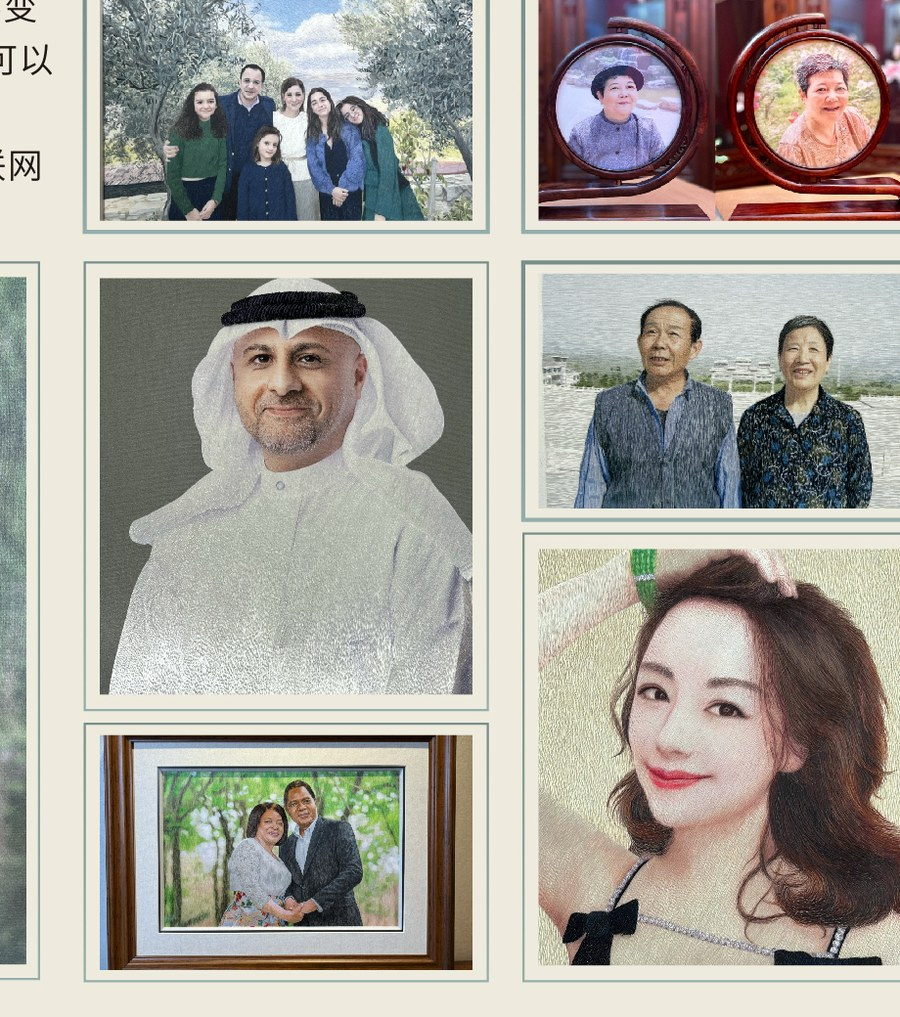
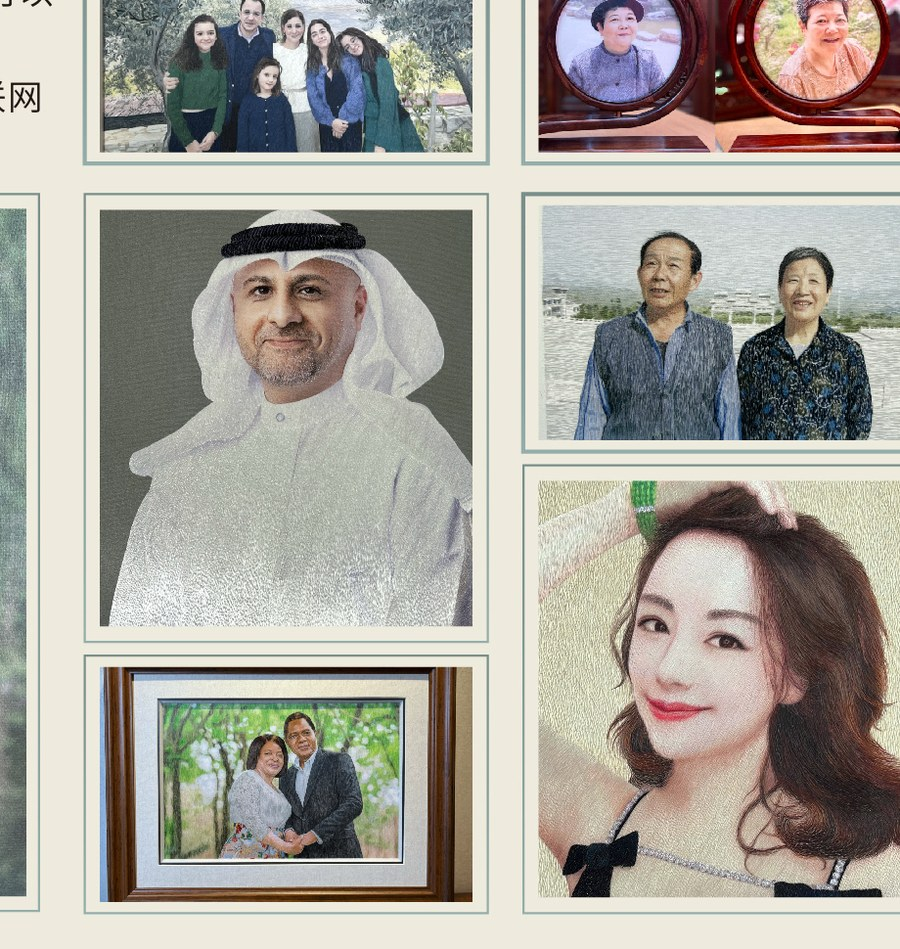
Polish final website copy and imagery

diff --git a/works-bieshu.html b/works-bieshu.html
@@ -129,7 +129,7 @@
         <div class="container mx-auto px-6 lg:px-12">
             <div class="grid grid-cols-1 md:grid-cols-2 gap-12 items-center mb-16">
                 <div class="fade-in">
-                    <img src="images/别墅挂画主图-1.png" alt="别墅挂画" class="w-full h-[500px] object-cover shadow-2xl">
+                    <img src="images/studio/villa-main.jpg" alt="别墅挂画" class="w-full h-[500px] object-cover shadow-2xl">
                 </div>
                 <div class="fade-in">
                     <h2 class="text-2xl font-serif tracking-wider mb-6">高端空间艺术定制</h2>
@@ -145,7 +145,7 @@
             </div>
             <div class="grid grid-cols-1 md:grid-cols-3 gap-8">
                 <div class="group relative overflow-hidden cursor-pointer fade-in">
-                    <img src="images/别墅挂画-3.png" alt="客厅挂画" class="w-full h-[500px] object-cover transition-transform duration-700 group-hover:scale-110">
+                    <img src="images/studio/villa-bird-detail.jpg" alt="客厅挂画" class="w-full h-[500px] object-cover transition-transform duration-700 group-hover:scale-110">
                     <div class="absolute inset-0 bg-black/0 group-hover:bg-black/40 transition-all duration-500 flex items-end">
                         <div class="p-6 translate-y-full group-hover:translate-y-0 transition-transform duration-500 text-white">
                             <h3 class="text-lg font-serif tracking-wider">客厅玄关</h3>
@@ -153,7 +153,7 @@
                     </div>
                 </div>
                 <div class="group relative overflow-hidden cursor-pointer fade-in" style="transition-delay: 0.1s;">
-                    <img src="images/别墅挂画-2.png" alt="书房挂画" class="w-full h-[500px] object-cover transition-transform duration-700 group-hover:scale-110">
+                    <img src="images/studio/villa-flower-detail.jpg" alt="书房挂画" class="w-full h-[500px] object-cover transition-transform duration-700 group-hover:scale-110">
                     <div class="absolute inset-0 bg-black/0 group-hover:bg-black/40 transition-all duration-500 flex items-end">
                         <div class="p-6 translate-y-full group-hover:translate-y-0 transition-transform duration-500 text-white">
                             <h3 class="text-lg font-serif tracking-wider">书房花鸟</h3>
@@ -161,7 +161,7 @@
                     </div>
                 </div>
                 <div class="group relative overflow-hidden cursor-pointer fade-in" style="transition-delay: 0.2s;">
-                    <img src="images/别墅挂画-4.jpg" alt="卧室挂画" class="w-full h-[500px] object-cover transition-transform duration-700 group-hover:scale-110">
+                    <img src="images/studio/villa-landscape.jpg" alt="卧室挂画" class="w-full h-[500px] object-cover transition-transform duration-700 group-hover:scale-110">
                     <div class="absolute inset-0 bg-black/0 group-hover:bg-black/40 transition-all duration-500 flex items-end">
                         <div class="p-6 translate-y-full group-hover:translate-y-0 transition-transform duration-500 text-white">
                             <h3 class="text-lg font-serif tracking-wider">卧室意境</h3>

diff --git a/works-foxiang.html b/works-foxiang.html
@@ -129,7 +129,7 @@
         <div class="container mx-auto px-6 lg:px-12">
             <div class="grid grid-cols-1 md:grid-cols-2 gap-12 items-center mb-16">
                 <div class="fade-in">
-                    <img src="images/别墅挂画-2.png" alt="苏绣佛像" class="w-full h-[500px] object-cover shadow-2xl">
+                    <img src="images/studio/buddha-guanyin.jpg" alt="苏绣佛像" class="w-full h-[500px] object-cover shadow-2xl">
                 </div>
                 <div class="fade-in">
                     <h2 class="text-2xl font-serif tracking-wider mb-6">苏绣佛像</h2>
@@ -145,7 +145,7 @@
             </div>
             <div class="grid grid-cols-1 md:grid-cols-3 gap-8">
                 <div class="group relative overflow-hidden cursor-pointer fade-in">
-                    <img src="images/别墅挂画-2.png" alt="佛像作品1" class="w-full h-80 object-cover transition-transform duration-700 group-hover:scale-110">
+                    <img src="images/studio/buddha-guanyin.jpg" alt="佛像作品1" class="w-full h-80 object-cover transition-transform duration-700 group-hover:scale-110">
                     <div class="absolute inset-0 bg-black/0 group-hover:bg-black/40 transition-all duration-500 flex items-end">
                         <div class="p-6 translate-y-full group-hover:translate-y-0 transition-transform duration-500 text-white">
                             <h3 class="text-lg font-serif tracking-wider">观世音菩萨</h3>
@@ -153,7 +153,7 @@
                     </div>
                 </div>
                 <div class="group relative overflow-hidden cursor-pointer fade-in" style="transition-delay: 0.1s;">
-                    <img src="images/别墅挂画-3.png" alt="佛像作品2" class="w-full h-80 object-cover transition-transform duration-700 group-hover:scale-110">
+                    <img src="images/studio/buddha-grid.jpg" alt="佛像作品2" class="w-full h-80 object-cover transition-transform duration-700 group-hover:scale-110">
                     <div class="absolute inset-0 bg-black/0 group-hover:bg-black/40 transition-all duration-500 flex items-end">
                         <div class="p-6 translate-y-full group-hover:translate-y-0 transition-transform duration-500 text-white">
                             <h3 class="text-lg font-serif tracking-wider">弥勒佛</h3>
@@ -161,7 +161,7 @@
                     </div>
                 </div>
                 <div class="group relative overflow-hidden cursor-pointer fade-in" style="transition-delay: 0.2s;">
-                    <img src="images/别墅挂画-4.jpg" alt="佛像作品3" class="w-full h-80 object-cover transition-transform duration-700 group-hover:scale-110">
+                    <img src="images/studio/lotus-detail.jpg" alt="佛像作品3" class="w-full h-80 object-cover transition-transform duration-700 group-hover:scale-110">
                     <div class="absolute inset-0 bg-black/0 group-hover:bg-black/40 transition-all duration-500 flex items-end">
                         <div class="p-6 translate-y-full group-hover:translate-y-0 transition-transform duration-500 text-white">
                             <h3 class="text-lg font-serif tracking-wider">释迦牟尼</h3>

diff --git a/works-hunjia.html b/works-hunjia.html
@@ -142,7 +142,7 @@
         <div class="container mx-auto px-6 lg:px-12">
             <div class="grid grid-cols-1 md:grid-cols-2 gap-12 items-center mb-16">
                 <div class="fade-in">
-                    <img src="images/婚庆主图.png" alt="苏绣婚嫁" class="w-full h-[500px] object-cover shadow-2xl">
+                    <img src="images/studio/wedding-fan.jpg" alt="苏绣婚嫁团扇" class="w-full h-[500px] object-cover shadow-2xl">
                 </div>
                 <div class="fade-in">
                     <h2 class="text-2xl font-serif tracking-wider mb-6">中式备婚礼经典传承</h2>
@@ -158,7 +158,7 @@
             </div>
             <div class="grid grid-cols-1 md:grid-cols-3 gap-8">
                 <div class="group relative overflow-hidden cursor-pointer fade-in">
-                    <img src="images/婚庆主图.png" alt="龙凤褂" class="w-full h-80 object-cover transition-transform duration-700 group-hover:scale-110">
+                    <img src="images/studio/wedding-invitation.jpg" alt="婚书定制" class="w-full h-80 object-cover transition-transform duration-700 group-hover:scale-110">
                     <div class="absolute inset-0 bg-black/0 group-hover:bg-black/40 transition-all duration-500 flex items-end">
                         <div class="p-6 translate-y-full group-hover:translate-y-0 transition-transform duration-500 text-white">
                             <h3 class="text-lg font-serif tracking-wider">龙凤褂</h3>
@@ -166,7 +166,7 @@
                     </div>
                 </div>
                 <div class="group relative overflow-hidden cursor-pointer fade-in" style="transition-delay: 0.1s;">
-                    <img src="images/婚庆主图.png" alt="嫁衣" class="w-full h-80 object-cover transition-transform duration-700 group-hover:scale-110">
+                    <img src="images/studio/wedding-chair.jpg" alt="婚庆礼椅" class="w-full h-80 object-cover transition-transform duration-700 group-hover:scale-110">
                     <div class="absolute inset-0 bg-black/0 group-hover:bg-black/40 transition-all duration-500 flex items-end">
                         <div class="p-6 translate-y-full group-hover:translate-y-0 transition-transform duration-500 text-white">
                             <h3 class="text-lg font-serif tracking-wider">绣花嫁衣</h3>
@@ -174,7 +174,7 @@
                     </div>
                 </div>
                 <div class="group relative overflow-hidden cursor-pointer fade-in" style="transition-delay: 0.2s;">
-                    <img src="images/婚庆主图.png" alt="床品" class="w-full h-80 object-cover transition-transform duration-700 group-hover:scale-110">
+                    <img src="images/studio/wedding-xi-box.jpg" alt="喜盒刺绣" class="w-full h-80 object-cover transition-transform duration-700 group-hover:scale-110">
                     <div class="absolute inset-0 bg-black/0 group-hover:bg-black/40 transition-all duration-500 flex items-end">
                         <div class="p-6 translate-y-full group-hover:translate-y-0 transition-transform duration-500 text-white">
                             <h3 class="text-lg font-serif tracking-wider">婚庆床品</h3>

diff --git a/works-dongwu.html b/works-dongwu.html
@@ -142,7 +142,7 @@
         <div class="container mx-auto px-6 lg:px-12">
             <div class="grid grid-cols-1 md:grid-cols-2 gap-12 items-center mb-16">
                 <div class="fade-in">
-                    <img src="images/别墅挂画-3.png" alt="苏绣动物" class="w-full h-[500px] object-cover shadow-2xl">
+                    <img src="images/studio/animal-peacock.jpg" alt="苏绣动物" class="w-full h-[500px] object-cover shadow-2xl">
                 </div>
                 <div class="fade-in">
                     <h2 class="text-2xl font-serif tracking-wider mb-6">灵动生机的艺术呈现</h2>
@@ -158,7 +158,7 @@
             </div>
             <div class="grid grid-cols-1 md:grid-cols-3 gap-8">
                 <div class="group relative overflow-hidden cursor-pointer fade-in">
-                    <img src="images/别墅挂画-2.png" alt="金翅鸟" class="w-full h-80 object-cover transition-transform duration-700 group-hover:scale-110">
+                    <img src="images/studio/animal-peacock.jpg" alt="金翅鸟" class="w-full h-80 object-cover transition-transform duration-700 group-hover:scale-110">
                     <div class="absolute inset-0 bg-black/0 group-hover:bg-black/40 transition-all duration-500 flex items-end">
                         <div class="p-6 translate-y-full group-hover:translate-y-0 transition-transform duration-500 text-white">
                             <h3 class="text-lg font-serif tracking-wider">金翅鸟</h3>
@@ -166,7 +166,7 @@
                     </div>
                 </div>
                 <div class="group relative overflow-hidden cursor-pointer fade-in" style="transition-delay: 0.1s;">
-                    <img src="images/别墅挂画-2.png" alt="猫咪" class="w-full h-80 object-cover transition-transform duration-700 group-hover:scale-110">
+                    <img src="images/studio/animal-cat.jpg" alt="猫咪" class="w-full h-80 object-cover transition-transform duration-700 group-hover:scale-110">
                     <div class="absolute inset-0 bg-black/0 group-hover:bg-black/40 transition-all duration-500 flex items-end">
                         <div class="p-6 translate-y-full group-hover:translate-y-0 transition-transform duration-500 text-white">
                             <h3 class="text-lg font-serif tracking-wider">灵猫</h3>
@@ -174,7 +174,7 @@
                     </div>
                 </div>
                 <div class="group relative overflow-hidden cursor-pointer fade-in" style="transition-delay: 0.2s;">
-                    <img src="images/别墅挂画-4.jpg" alt="孔雀" class="w-full h-80 object-cover transition-transform duration-700 group-hover:scale-110">
+                    <img src="images/studio/animal-fox.jpg" alt="孔雀" class="w-full h-80 object-cover transition-transform duration-700 group-hover:scale-110">
                     <div class="absolute inset-0 bg-black/0 group-hover:bg-black/40 transition-all duration-500 flex items-end">
                         <div class="p-6 translate-y-full group-hover:translate-y-0 transition-transform duration-500 text-white">
                             <h3 class="text-lg font-serif tracking-wider">孔雀</h3>

diff --git a/index.html b/index.html
@@ -128,7 +128,7 @@
                         <span class="yx-eyebrow">Atelier Positioning</span>
                         <h2 class="yx-title">精品收藏级苏绣，私人定制。</h2>
                         <p>杨雪刺绣艺术以“中国·苏绣”为根，以纯手工技艺回应当代审美，让传统单品再次发光发热，也让丝织技艺走进真实生活。</p>
-                        <p>网站不再把资料册当图片贴上来，而是把内容拆成清晰的网页叙事：作品作为作品展示，履历作为文字阅读，服务作为可咨询的路径。</p>
+                        <p>网站围绕作品展示、艺术履历与定制咨询展开，让访客先看见作品质感，再理解杨雪的技艺背景与服务方式。</p>
                         <div class="yx-brochure-note">
                             <div>
                                 <strong>400万+</strong>
@@ -167,7 +167,7 @@
                         <span class="yx-eyebrow">Selected Works</span>
                         <h2 class="yx-title">作品不是装饰，是空间里被看见的时间。</h2>
                     </div>
-                    <p>参考美术馆式首页的作品陈列逻辑，这里更进一步突出真实作品、真实场景和可定制方向，让访问者第一眼就知道杨雪的艺术可以如何进入自己的生活。</p>
+                    <p>以美术馆式的留白和作品陈列组织页面，让访客第一眼看到真实作品、真实场景和可定制方向。</p>
                 </div>
 
                 <div class="yx-work-grid">
@@ -284,7 +284,7 @@
 
                 <div class="yx-news-grid">
                     <a href="news.html" class="yx-news-card fade-in">
-                        <img src="images/杨雪介绍.png" alt="杨雪刺绣创作现场">
+                        <img src="images/studio/studio-creation.jpg" alt="杨雪刺绣创作现场">
                         <div class="yx-news-card__body">
                             <time datetime="2026-05-02">Studio</time>
                             <h3>从一方绣绷开始，走向更大的艺术现场</h3>
@@ -300,7 +300,7 @@
                         </div>
                     </a>
                     <a href="visit-diy.html" class="yx-news-card fade-in">
-                        <img src="images/婚庆主图.png" alt="苏绣体验活动">
+                        <img src="images/studio/wedding-invitation.jpg" alt="苏绣婚书作品">
                         <div class="yx-news-card__body">
                             <span>Experience</span>
                             <h3>刺绣体验与研学活动</h3>

diff --git a/custom-case.html b/custom-case.html
@@ -145,7 +145,7 @@
             <div class="grid grid-cols-1 md:grid-cols-2 lg:grid-cols-3 gap-8">
                 <div class="case-card group relative overflow-hidden cursor-pointer fade-in">
                     <div class="aspect-[4/5] overflow-hidden">
-                        <img src="images/杨雪介绍.png" alt="案例1" class="w-full h-full object-cover transition-transform duration-700">
+                        <img src="images/studio/portrait-man.jpg" alt="案例1" class="w-full h-full object-cover transition-transform duration-700">
                     </div>
                     <div class="case-overlay absolute inset-0 bg-black/70 opacity-0 transition-opacity duration-500 flex flex-col items-center justify-center text-white p-8">
                         <span class="text-accent text-sm tracking-widest mb-2">人物肖像</span>
@@ -167,7 +167,7 @@
                 </div>
                 <div class="case-card group relative overflow-hidden cursor-pointer fade-in" style="transition-delay: 0.2s;">
                     <div class="aspect-[4/5] overflow-hidden">
-                        <img src="images/别墅挂画主图-1.png" alt="案例3" class="w-full h-full object-cover transition-transform duration-700">
+                        <img src="images/studio/villa-main.jpg" alt="案例3" class="w-full h-full object-cover transition-transform duration-700">
                     </div>
                     <div class="case-overlay absolute inset-0 bg-black/70 opacity-0 transition-opacity duration-500 flex flex-col items-center justify-center text-white p-8">
                         <span class="text-accent text-sm tracking-widest mb-2">空间装饰</span>
@@ -178,7 +178,7 @@
                 </div>
                 <div class="case-card group relative overflow-hidden cursor-pointer fade-in">
                     <div class="aspect-[4/5] overflow-hidden">
-                        <img src="images/婚庆主图.png" alt="案例4" class="w-full h-full object-cover transition-transform duration-700">
+                        <img src="images/studio/wedding-fan.jpg" alt="案例4" class="w-full h-full object-cover transition-transform duration-700">
                     </div>
                     <div class="case-overlay absolute inset-0 bg-black/70 opacity-0 transition-opacity duration-500 flex flex-col items-center justify-center text-white p-8">
                         <span class="text-accent text-sm tracking-widest mb-2">婚庆礼品</span>

diff --git a/about.html b/about.html
@@ -157,21 +157,20 @@
         </div>
     </section>
     <section class="yx-section yx-section--silk">
-        <div class="yx-container yx-brochure-split">
-            <div class="yx-brochure-media fade-in">
-                <img src="images/brochure/profile-timeline.jpg" alt="杨雪工作室介绍册中的个人简介、师承、历程和获奖资料">
+        <div class="yx-container yx-story-panel">
+            <div class="yx-story-panel__image fade-in">
+                <img src="images/studio/mentor-photo.jpg" alt="杨雪与师承老师合影">
             </div>
             <div class="yx-copy fade-in">
-                <span class="yx-eyebrow">Brochure Extract</span>
+                <span class="yx-eyebrow">Lineage & Practice</span>
                 <h2 class="yx-title">从师承、交流到获奖，形成完整的创作履历。</h2>
-                <p>工作室介绍册中将杨雪的个人资料分成四条线索：身份资质、师承关系、个人历程和获奖荣誉。网页端保留这些信息，同时把长段文字拆成更容易扫描的模块。</p>
+                <p>杨雪的履历由身份资质、师承关系、国际交流和代表合作共同构成，呈现出一条持续深耕苏绣与缂丝的创作路径。</p>
                 <p>她曾代表江苏省非遗项目前往德国、捷克、荷兰、英国进行艺术文化交流，也曾参与南京云锦、鸿星尔克、腾讯非遗日、海澜之家、人民日报、央视诗词大会等跨界项目。</p>
-                <div class="yx-tags">
-                    <span>江苏省非遗优青</span>
-                    <span>中国匠人大会守护大使</span>
-                    <span>品牌与媒体合作</span>
-                    <span>多项工艺美术奖项</span>
-                </div>
+                <ul class="yx-story-list">
+                    <li><strong>师承</strong><span>启蒙于江苏省省大师濮凤娟，后拜刺绣届有“猫王”之称的国大师陈水琴为师。</span></li>
+                    <li><strong>交流</strong><span>2017年至2019年多次代表江苏省非遗项目赴德国、捷克、荷兰、英国进行艺术文化交流。</span></li>
+                    <li><strong>合作</strong><span>参与南京云锦、鸿星尔克、腾讯非遗日、海澜之家、人民日报、央视诗词大会等项目。</span></li>
+                </ul>
             </div>
         </div>
     </section>

diff --git a/works-guoli.html b/works-guoli.html
@@ -142,7 +142,7 @@
         <div class="container mx-auto px-6 lg:px-12">
             <div class="grid grid-cols-1 md:grid-cols-2 gap-12 items-center mb-16">
                 <div class="fade-in">
-                    <img src="images/别墅挂画主图-1.png" alt="双面三异绣" class="w-full h-[500px] object-cover shadow-2xl">
+                    <img src="images/studio/guoli-flamingo-swan.jpg" alt="双面三异绣" class="w-full h-[500px] object-cover shadow-2xl">
                 </div>
                 <div class="fade-in">
                     <h2 class="text-2xl font-serif tracking-wider mb-6">双面三异绣</h2>
@@ -158,7 +158,7 @@
             </div>
             <div class="grid grid-cols-1 md:grid-cols-3 gap-8">
                 <div class="group relative overflow-hidden cursor-pointer fade-in">
-                    <img src="images/杨雪介绍.png" alt="作品1" class="w-full h-80 object-cover transition-transform duration-700 group-hover:scale-110">
+                    <img src="images/studio/guoli-flamingo-swan.jpg" alt="作品1" class="w-full h-80 object-cover transition-transform duration-700 group-hover:scale-110">
                     <div class="absolute inset-0 bg-black/0 group-hover:bg-black/40 transition-all duration-500 flex items-end">
                         <div class="p-6 translate-y-full group-hover:translate-y-0 transition-transform duration-500 text-white">
                             <h3 class="text-lg font-serif tracking-wider">精品一</h3>
@@ -174,7 +174,7 @@
                     </div>
                 </div>
                 <div class="group relative overflow-hidden cursor-pointer fade-in" style="transition-delay: 0.2s;">
-                    <img src="images/别墅挂画主图-1.png" alt="作品3" class="w-full h-80 object-cover transition-transform duration-700 group-hover:scale-110">
+                    <img src="images/studio/lotus-detail.jpg" alt="作品3" class="w-full h-80 object-cover transition-transform duration-700 group-hover:scale-110">
                     <div class="absolute inset-0 bg-black/0 group-hover:bg-black/40 transition-all duration-500 flex items-end">
                         <div class="p-6 translate-y-full group-hover:translate-y-0 transition-transform duration-500 text-white">
                             <h3 class="text-lg font-serif tracking-wider">精品三</h3>

diff --git a/works-renwu.html b/works-renwu.html
@@ -142,7 +142,7 @@
         <div class="container mx-auto px-6 lg:px-12">
             <div class="grid grid-cols-1 md:grid-cols-2 gap-12 items-center mb-16">
                 <div class="fade-in">
-                    <img src="images/杨雪介绍.png" alt="人物绣品" class="w-full h-[500px] object-cover shadow-2xl">
+                    <img src="images/studio/portrait-man.jpg" alt="人物绣品" class="w-full h-[500px] object-cover shadow-2xl">
                 </div>
                 <div class="fade-in">
                     <h2 class="text-2xl font-serif tracking-wider mb-6">形神兼备的艺术再现</h2>
@@ -158,7 +158,7 @@
             </div>
             <div class="grid grid-cols-1 md:grid-cols-3 gap-8">
                 <div class="group relative overflow-hidden cursor-pointer fade-in">
-                    <img src="images/杨雪介绍.png" alt="肖像" class="w-full h-80 object-cover transition-transform duration-700 group-hover:scale-110">
+                    <img src="images/studio/portrait-man.jpg" alt="肖像" class="w-full h-80 object-cover transition-transform duration-700 group-hover:scale-110">
                     <div class="absolute inset-0 bg-black/0 group-hover:bg-black/40 transition-all duration-500 flex items-end">
                         <div class="p-6 translate-y-full group-hover:translate-y-0 transition-transform duration-500 text-white">
                             <h3 class="text-lg font-serif tracking-wider">人物肖像</h3>
@@ -166,7 +166,7 @@
                     </div>
                 </div>
                 <div class="group relative overflow-hidden cursor-pointer fade-in" style="transition-delay: 0.1s;">
-                    <img src="images/婚庆主图.png" alt="婚纱" class="w-full h-80 object-cover transition-transform duration-700 group-hover:scale-110">
+                    <img src="images/studio/portrait-samples.jpg" alt="人物样稿" class="w-full h-80 object-cover transition-transform duration-700 group-hover:scale-110">
                     <div class="absolute inset-0 bg-black/0 group-hover:bg-black/40 transition-all duration-500 flex items-end">
                         <div class="p-6 translate-y-full group-hover:translate-y-0 transition-transform duration-500 text-white">
                             <h3 class="text-lg font-serif tracking-wider">婚纱纪念</h3>

diff --git a/news.html b/news.html
@@ -189,7 +189,7 @@
                 <!-- 新闻卡片3 -->
                 <div class="news-card bg-white overflow-hidden fade-in" style="transition-delay: 0.2s;">
                     <div class="relative">
-                        <img src="images/婚庆主图.png" alt="跨界合作" class="w-full h-48 object-cover">
+                        <img src="images/studio/hanfu-collaboration.jpg" alt="跨界合作" class="w-full h-48 object-cover">
                         <span class="absolute top-4 left-4 px-3 py-1 bg-primary text-white text-xs">活动讯息</span>
                     </div>
                     <div class="p-6">
@@ -217,7 +217,7 @@
                 <!-- 新闻卡片5 -->
                 <div class="news-card bg-white overflow-hidden fade-in" style="transition-delay: 0.1s;">
                     <div class="relative">
-                        <img src="images/婚庆主图.png" alt="中国匠人大会" class="w-full h-48 object-cover">
+                        <img src="images/studio/cultural-exchange.jpg" alt="中国匠人大会" class="w-full h-48 object-cover">
                         <span class="absolute top-4 left-4 px-3 py-1 bg-accent text-white text-xs">活动讯息</span>
                     </div>
                     <div class="p-6">
@@ -273,7 +273,7 @@
                 <!-- 新闻卡片9 -->
                 <div class="news-card bg-white overflow-hidden fade-in" style="transition-delay: 0.2s;">
                     <div class="relative">
-                        <img src="images/婚庆主图.png" alt="获奖新闻" class="w-full h-48 object-cover">
+                        <img src="images/studio/lotus-detail.jpg" alt="获奖新闻" class="w-full h-48 object-cover">
                         <span class="absolute top-4 left-4 px-3 py-1 bg-primary text-white text-xs">展览讯息</span>
                     </div>
                     <div class="p-6">

diff --git a/custom-process.html b/custom-process.html
@@ -237,7 +237,7 @@
             <div class="yx-copy fade-in">
                 <span class="yx-eyebrow">Order Guide</span>
                 <h2 class="yx-title">订购说明，先把资料准备清楚。</h2>
-                <p>根据工作室介绍册，定制前建议先准备清晰图片、尺寸和包装需求。信息越完整，方案沟通、报价和制作周期就越明确。</p>
+                <p>定制前建议先准备清晰图片、尺寸、包装要求和使用场景。信息越完整，方案沟通、报价和制作周期就越明确。</p>
                 <ol class="yx-order-list">
                     <li>请提供所需绣制的清晰图片，普通照片、书刊或数码文件均可。</li>
                     <li>请提供绣品尺寸、包装要求，以及使用场景或送礼对象。</li>
@@ -247,7 +247,7 @@
                 </ol>
             </div>
             <div class="yx-brochure-media fade-in">
-                <img src="images/brochure/order-guide.jpg" alt="杨雪刺绣工作室订购说明">
+                <img src="images/studio/studio-creation.jpg" alt="杨雪在工作室进行刺绣创作">
             </div>
         </div>
     </section>

diff --git a/works.html b/works.html
@@ -371,7 +371,7 @@
                     <span class="yx-eyebrow">Collection System</span>
                     <h2 class="yx-title">六大作品体系，各自有自己的观看方式。</h2>
                 </div>
-                <p>这里不再展示资料册截图，而是把单张作品独立拎出来，让每个系列都有清楚的题材、气质和使用场景。</p>
+                <p>每个系列都以单张作品作为视觉入口，突出题材、气质和使用场景，让作品本身成为页面的主角。</p>
             </div>
             <div class="yx-series-showcase">
                 <a href="works-guoli.html" class="yx-series-card yx-series-card--tall fade-in">
